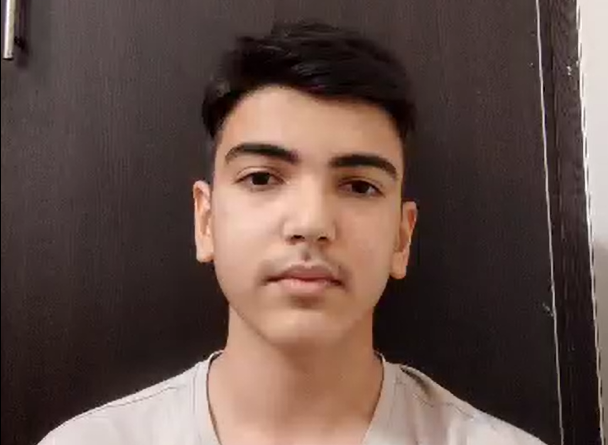
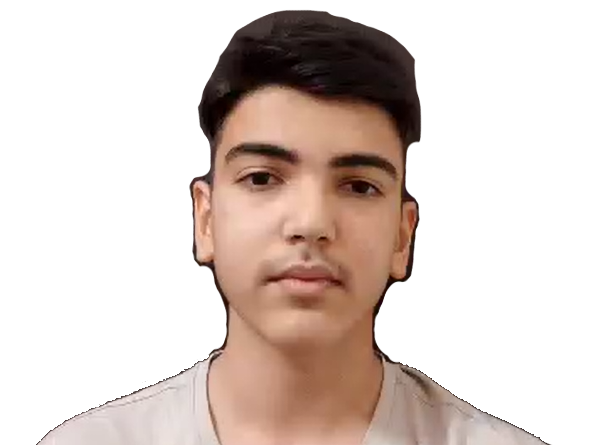
.

diff --git a/mohammadrezazilabi.html b/mohammadrezazilabi.html
@@ -1,3 +1,7 @@
 <div style="background-color: gray;width: 500px;height: 700px;border-radius: 10000px;"></div>
-<img style="position: absolute;" src="mrz.png">
-<p style="position: absolute;"></p>
+<img style="position: absolute;top: 10px;width: 20%;left: 100px;" src="mrz.png">
+<p style="position: absolute;top: 225px;font-size: 30px;left: 100px;">MohammadReza Zilabi</p>
+<p style="position: absolute;top: 300px;font-size: 40px;left: 187.5px;">Pass: 90</p>
+<p style="position: absolute;top: 350px;font-size: 40px;left: 170px;">Attack: 90</p>
+<p style="position: absolute;top: 400px;font-size: 40px;left: 162.5px;">Defense: 90</p>
+<p style="position: absolute;top: 500px;font-size: 40px;left: 200px;">TP: 90</p>
